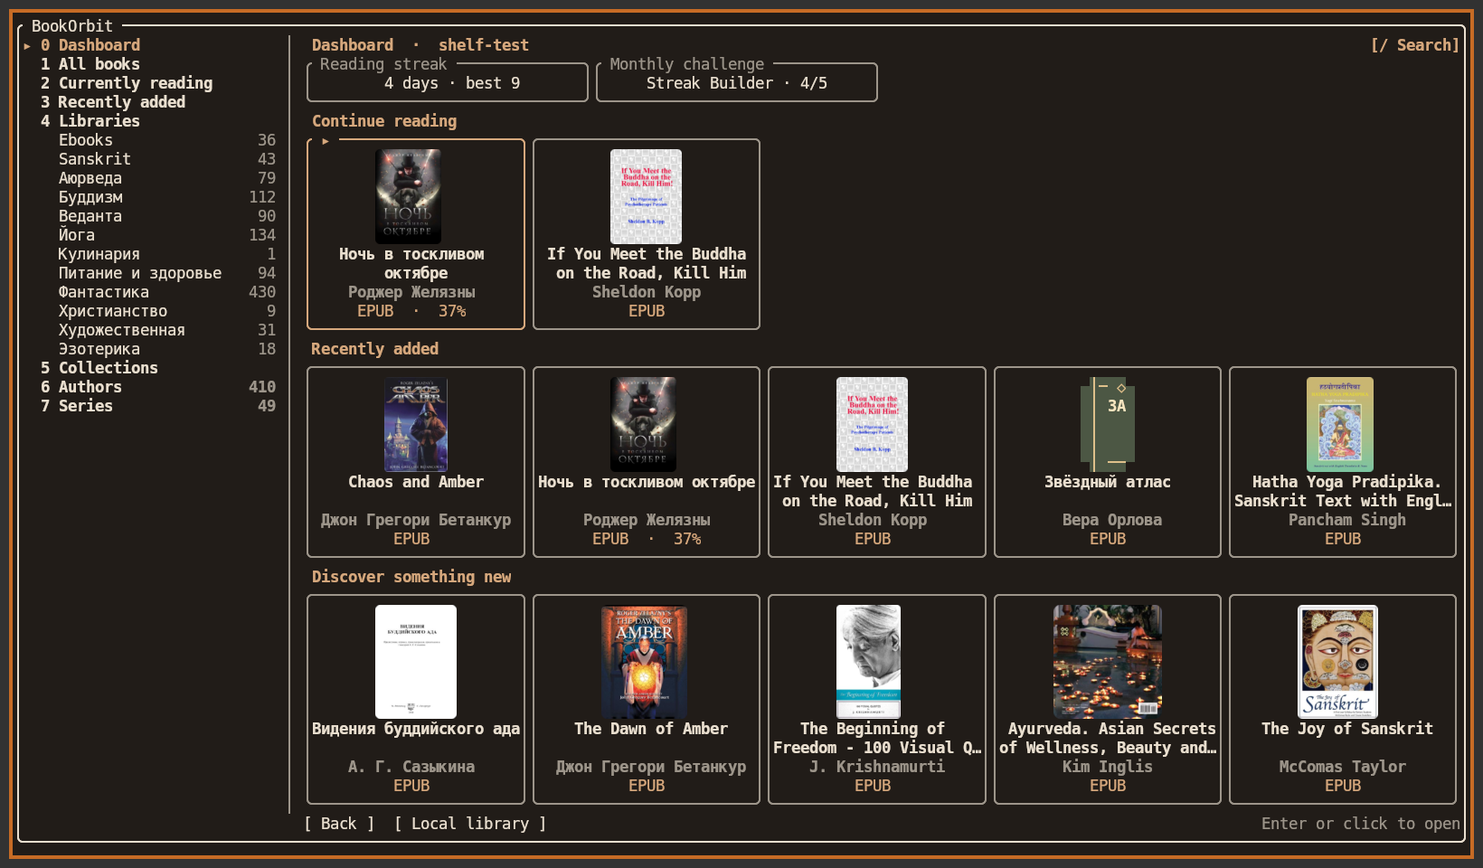
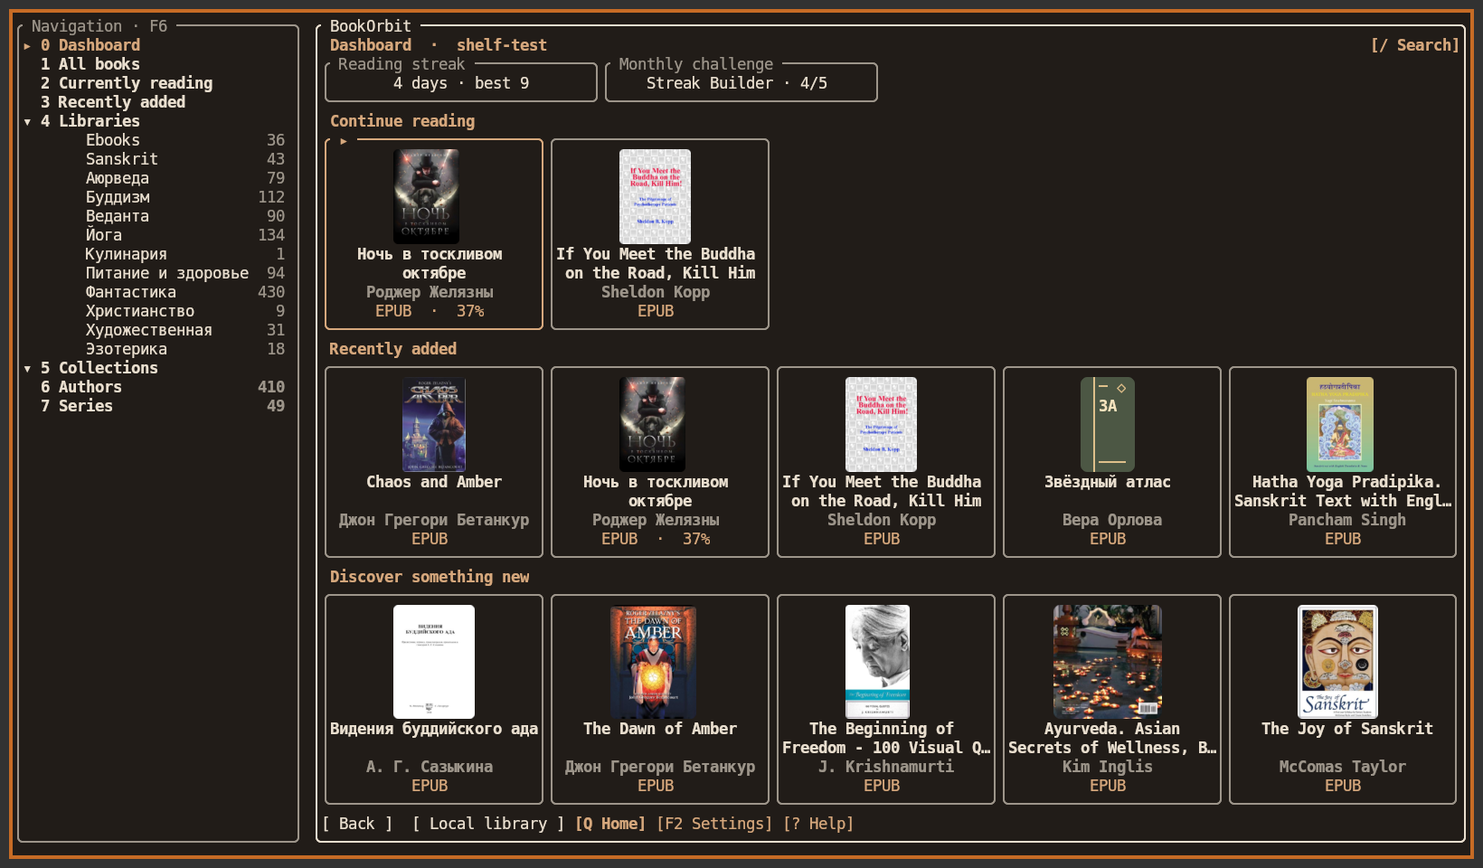
Document reader controls and show the terminal interface

diff --git a/docs/architecture.md b/docs/architecture.md
@@ -31,10 +31,14 @@
 
 ## Что проверено и где остаются границы
 
-Тесты через tmux и локальные HTTP-серверы покрывают родной каталог, OPDS 1.x/Atom с независимой авторизацией, доступность полки без коллекций, выбор файла, обложку и заглушку, позиции, отказ от перезаписи чужого прогресса, чтение и разворот PDF/DjVu. В отдельном виртуальном рабочем столе снят реальный Kitty с обложками из локальных EPUB. Обмен Rust ↔ Foliate проверяется `scripts/check-foliate.mjs` с примером `cfi-probe`: для сборника Иторра 11 позиций EPUB и 11 FB2 вернулись в тот же блок и байт. Это проверка выборки, не всех вариантов EPUB и FB2.
+Тесты через tmux и локальные HTTP-серверы покрывают родной каталог, OPDS 1.x/Atom и OPDS 2/JSON с независимой авторизацией, доступность полки без коллекций, выбор файла, обложку и заглушку, позиции, отказ от перезаписи чужого прогресса, чтение и разворот PDF/DjVu. В отдельном виртуальном рабочем столе снят реальный Kitty с обложками из локальных EPUB. Обмен Rust ↔ Foliate проверяется `scripts/check-foliate.mjs` с примером `cfi-probe`: для сборника Иторра 11 позиций EPUB и 11 FB2 вернулись в тот же блок и байт. Это проверка выборки, не всех вариантов EPUB и FB2.
 
 Дополнительные сценарии проверяют удалённый поиск за границей первой выдачи, две личные полки, закладку без адреса и создание/удаление серверной закладки. Отдельный тест сохраняет книгу, выходит из аккаунта, читает копию без запросов к серверу и проверяет условную запись после входа. Локальный сценарий задаёт корневую папку из интерфейса, находит файл несколькими уровнями ниже и проверяет восстановление после перезапуска. На реальном EPUB о Гесаре проверены переходы по NCX, переразбивка обеих страниц, соединение разорванного слова и точный возврат раскладки. Для PDF/DjVu поиск использует текстовый слой; распознавания изображений нет. Закладки и заметки в сканах адресуют физическую страницу; Markdown-экспорт указывает её номер. Во всех форматах S показывает количество локальных сеансов и время с открытой книгой.
 
-Ссылки и иллюстрации привязаны к исходному блоку. Формат разрешает ссылки в адрес того же документа, дополнительный XHTML сноски, двоичный ресурс внутри книги или URL веб-сайта. Текст, изображение или переход открываются по выбору из I; чтение не обращается к сайтам за изображениями. EPUB и FB2 используют один экран.
+Ссылки и иллюстрации привязаны к исходному блоку. В книгах, состоящих из иллюстраций, локальные растровые пластины могут образовывать самостоятельные страницы. Формат разрешает ссылки в адрес того же документа, дополнительный XHTML сноски, двоичный ресурс внутри книги или URL веб-сайта. Текст, изображение или переход открываются по выбору из I; чтение не обращается к сайтам за изображениями. EPUB и FB2 используют один экран.
 
-Открытые пункты: проверка точной позиции и закладок на одном издании между личным BookOrbit, TUI и iPhone; OPDS 2; отображение иллюстраций прямо между строками и сложной издательской HTML/CSS-вёрстки EPUB; сводная статистика по всей библиотеке. Это отдельные задачи, а не свойства уже проверенных сценариев. [Bookokrat](https://bugzmanov.github.io/bookokrat/index.html) остаётся ориентиром по работе с терминальными книгами.
+Клиент OPDS понимает Atom и JSON, включая группы, фасеты и шаблоны поиска. В `formats` ссылки, изображения и таблицы привязаны к исходным блокам. `core` переносит текст и ставит иллюстрации в поток без изменения адресов BookOrbit. Текстовый режим Scroll перемещает верхнюю строку; для фиксированной страницы отдельный модуль режет растры двух соседних листов по видимой части. Локальное смещение скана отделено от серверного номера страницы.
+
+Оформление терминала использует SGR по умолчанию и ANSI; только непрозрачная бумага требует актуального RGB через OSC 11. Именная палитра интерфейса независима от бумаги книги. Здесь нет привязки к pywal или matugen. У каталога собственное дерево с независимыми группами; карточка грузит метаданные в фоне, не сдвигая область клика по файлам. Смена статуса и сброс используют разные API и не подменяются записью произвольного процента.
+
+Сверено с [режимами Bookokrat](https://bugzmanov.github.io/bookokrat/index.html), [нативным API книг BookOrbit](https://github.com/bookorbit/bookorbit/blob/6ad1445dab35757164ed3bf31e83caeb6ba24ad2/server/src/modules/book/book.controller.ts), [транзакцией сброса](https://github.com/bookorbit/bookorbit/blob/6ad1445dab35757164ed3bf31e83caeb6ba24ad2/server/src/modules/reading-state/reading-state.repository.ts) и [спецификацией OPDS 2](https://specs.opds.io/opds-2.0.html). Границы совместимости и проверок — в [чеклисте](checklist.md).

diff --git a/README.md b/README.md
@@ -2,7 +2,7 @@
 
 **English** · [Русский](README.ru.md)
 
-Read a book from your BookOrbit account, an OPDS catalog or a local folder in the terminal. EPUB and FB2 reflow into one page or a two-page spread. PDF and DjVu retain their original pages. Use the keyboard, click a cover or scroll with the mouse.
+A terminal book reader for BookOrbit, OPDS catalogs and local folders. Read reflowable EPUB and FB2 or the original PDF and DjVu pages. All four formats support a single page, a facing spread and continuous scrolling, with keyboard and mouse controls.
 
 ![BookOrbit dashboard with reading progress, recent additions and book covers in Kitty](docs/images/dashboard.png)
 
@@ -62,6 +62,8 @@ On the start screen, move the selection to see the description and controls for 
 
 ![Source chooser with its keyboard guide](docs/images/start.png)
 
+**F2** opens Settings: Appearance, Reader, Library, BookOrbit and Keys. **?** or **F1** goes straight to the shortcuts for the current screen. The footer shortcuts are clickable. **Q** closes the book, **Q** on the shelf returns to the source chooser, and **Q** there exits. **Esc** goes up one catalog level. When launched with a single file path, closing that file ends the command.
+
 **Local library** uses your saved root, then `~/Books`, then the current directory. Click **P Folder…** to paste a path. **R Set library here** remembers the folder currently on screen. **/** searches file and folder names recursively. **2** opens reading history with percentages and **3** shows recent files by creation time, falling back to modification time.
 
 ## BookOrbit
@@ -81,7 +83,13 @@ Choose **Connect to BookOrbit** to sign in. The dashboard shows continue reading
 
 To keep an edition on this device, choose **D Save offline** on its file list. Open it again through **Offline downloads**. The next sign-in to the same account can send offline progress if the server position still matches. Text bookmarks come from the selected BookOrbit file. A bookmark whose location cannot be resolved stays visible by name.
 
-**OPDS** accepts an Atom catalog URL and optional HTTP Basic credentials over HTTPS. Follow navigation feeds, search when the catalog advertises Atom search or OpenSearch, and select a downloadable edition. OPDS reading positions and notes are stored locally.
+Wide screens have a separately framed navigation tree. Click **Libraries** or **Collections** to fold them, or press **F6**, move with **↑/↓** and fold or expand with **←/→**. **4 / 5** open the full directories. Folded groups are remembered.
+
+Before opening an edition, its card shows the author, series, synopsis, publisher, date, language, ISBN and reading progress when supplied by the server. **R** reads the selected edition, **D** saves it offline and **I** opens the full synopsis. **H Put on hold** removes a book from active reading and keeps your place; **H Resume reading** puts it back. **X Reset reading state** requires confirmation, clears personal progress across the book’s editions and changes it to Unread on BookOrbit. It keeps files, bookmarks and notes. Reaching the end sends 100%; BookOrbit applies its own completion policy. Use `botui --check-bookmarks "Title"` to check edition-specific bookmark addresses without changing progress.
+
+See the [book details before reading](docs/images/book-details.png) and [navigation with the libraries folded](docs/images/navigation-folded.png).
+
+**OPDS** accepts OPDS 1 Atom and OPDS 2 JSON. Browse navigation, groups and facets; choose an edition, search through an advertised template or OpenSearch, and download direct acquisitions. Use HTTPS for HTTP Basic accounts. Loan-only and DRM entries remain catalog information. Positions and notes are local.
 
 ## Reading
 
@@ -90,7 +98,7 @@ To keep an edition on this device, choose **D Save offline** on its file list. O
 | EPUB and FB2 action | Controls |
 | --- | --- |
 | Turn pages | Left / Right, Page Up / Page Down, mouse wheel |
-| One page / facing pages | **1 / 2** |
+| Single page / facing spread / continuous scroll | **1 / 2 / 3**. In scroll mode ↑/↓ move one line, the wheel moves several, and PgUp/PgDn move a screen |
 | Open menu | **M**, Esc or click the page |
 | Adjust page width and column gap with a live preview | **W**, then click **− / +** on either row |
 | Adjust without opening the panel | **[** wider page, **]** narrower page. **{** smaller gap, **}** larger gap |
@@ -104,15 +112,23 @@ To keep an edition on this device, choose **D Save offline** on its file list. O
 
 Width and spacing are in terminal cells. Extra room sits outside the spread. A narrow window shows one page. Resize or adjust either value while reading to reflow both pages around the current text position. In scanned EPUB/FB2 text, botui can join printed line breaks and split words. Set `preserve_printed_lines = true` for editions where those breaks are intentional.
 
-For **PDF and DjVu**, use **P Read pages** on the file card, **1 / 2** for a page or spread and **+ / −** to zoom. Arrows pan while zoomed. **O** opens page navigation, **/** finds text and **N** advances to the next match. **B / G** manage page bookmarks and **I / A / E** manage and export page notes. The text reader’s width settings apply to reflowable books.
+For **PDF and DjVu**, choose **P Read pages** on the file card or **R Read** on the book card. **1 / 2 / 3** select one page, facing pages or scroll. Scrolling shows the end of one sheet and the start of the next together. The device remembers the offset within the sheet; BookOrbit stores a page number. **+ / −** zoom, **P** (or **Ctrl+G**) jumps straight to a page by number, **/** searches its text layer, **N** advances through matches, **B / G** manage bookmarks, and **I / A / E** manage and export page notes. There is no OCR step. **Z** hides the controls for the full window width. [A PDF at reading width in Kitty](docs/images/pdf-scroll.png).
+
+Embedded raster illustrations appear in the text; **I** also opens the separate viewer. Tables adapt to the available width. Set **F2 → Reader → Illustrations** to viewer only if desired. **S** displays book statistics; **F2 → Library → Reading statistics** shows totals on this device.
 
 ## Configuration
 
 Run `botui --config-path` to print the exact path. The default is `~/.config/botui/config.toml`. The same TOML file holds the library root, interface, reader bindings and BookOrbit account. The default UI language is English. See the [commented configuration](config.example.toml).
 
+**F2 → Appearance** sets the interface palette independently of the reading paper (**T**). Terminal uses the default foreground, background and ANSI slots, so changes to the emulator’s palette appear without restarting. Opaque paper follows the emulator’s OSC 11 response; if it cannot report RGB, botui uses ANSI black or your explicit `opaque_color`. Neither pywal nor matugen is required. Built-in themes include Gruvbox, Catppuccin, Nord, Dracula, Tokyo Night, Solarized, One Dark, Kanagawa, Rosé Pine and Everforest. A named palette stays fixed; transparency lets the window background show through. Set borders and jacket corners to Rounded, Square or None here.
+
+![Appearance settings in Gruvbox](docs/images/settings.png)
+
 ```toml
 library_root = "/path/to/books"
+interface_theme = "terminal"
 theme = "terminal"
+reading_layout = "auto"    # auto, single, spread, scroll
 borders = "rounded"        # rounded, square, none
 opaque_background = false
 page_width = 78

diff --git a/docs/checklist.md b/docs/checklist.md
@@ -16,11 +16,18 @@
 | Настоящее изображение страницы, разворот, поиск по текстовому слою и переход к странице PDF и DjVu | smoke-sources |
 | Локальные заметки и закладки, экспорт Markdown, время с открытой книгой | smoke-reader, smoke-sources |
 | Точная позиция в файле BookOrbit, конфликт с другим устройством, серверная закладка без адреса | smoke-progress |
-| Скачать, выйти, читать без HTTP, войти и отправить только непротиворечивый прогресс | smoke-offline |
+| Скачать, выйти, читать без HTTP, передать прогресс после входа, в том числе 99 → 100% по прежнему адресу | smoke-offline |
 | Перейти по ссылке и назад; открыть сноску и иллюстрацию EPUB/FB2 | smoke-resources |
+| Выбрать независимые темы, непрозрачность и рамки; справка, настройки подключения, сохранение после перезапуска | smoke-preferences |
+| Свернуть дерево мышью и клавишами, открыть карточку без изменения истории, отложить, отменить и подтвердить сброс | smoke-details |
+| Сдвинуть текст на строку; увидеть части двух разных сканов одновременно и восстановить смещение | smoke-scroll |
+| Открыть 137-й лист напрямую, найти текст на 137-м и 139-м, увидеть границу со 138-м на всю ширину | Release в Kitty, тестовый PDF на 140 листов; [вид границы страниц](images/pdf-scroll.png) |
+| Вернуться Q/Q к выбору источника после сохранения, открыть без повторного входа | smoke-progress |
+| Сменить палитру в работающем терминале в отсутствие pywal, сравнить реальные цвета фона | Изолированные Kitty и Alacritty |
 
-## Остаётся
+## Границы проверок
 
-- Проверить обмен на **одном и том же личном издании** между TUI, веб-читалкой BookOrbit и iPhone. Тест сервера и сравнение адресов с Foliate — отдельные проверки, не эта проверка.
-- Для следующих версий: встроенная в текст вёрстка иллюстраций и таблиц, OPDS 2, статистика всей библиотеки. Сейчас иллюстрации доступны для просмотра из книги, OPDS работает с Atom, статистика — отдельно для каждой книги.
-- Графический результат проверен в прямом Kitty и совместимый символьный — в tmux. Остальные терминалы требуют самостоятельной проверки.
+- BookOrbit: проверены ответы личного сервера для закладок конкретного EPUB и FB2. Изменение статуса, сброс и конфликты прогресса воспроизводятся на локальном HTTP-стенде. Полная проверка веб → iPhone → TUI требует устройства и одного и того же файла.
+- EPUB/FB2: адаптивные текстовые таблицы и встроенные растровые изображения; полное воспроизведение CSS, объединённых ячеек и MathML не заявляется.
+- OPDS 1/2: прямые выдаваемые файлы; каталоги, требующие DRM или отдельного процесса займа, не превращаются в фиктивные загрузки.
+- Для PDF/DjVu без текстового слоя доступно чтение скана, без OCR. Сервер синхронизирует номер страницы, локально сохраняется и смещение прокрутки.
